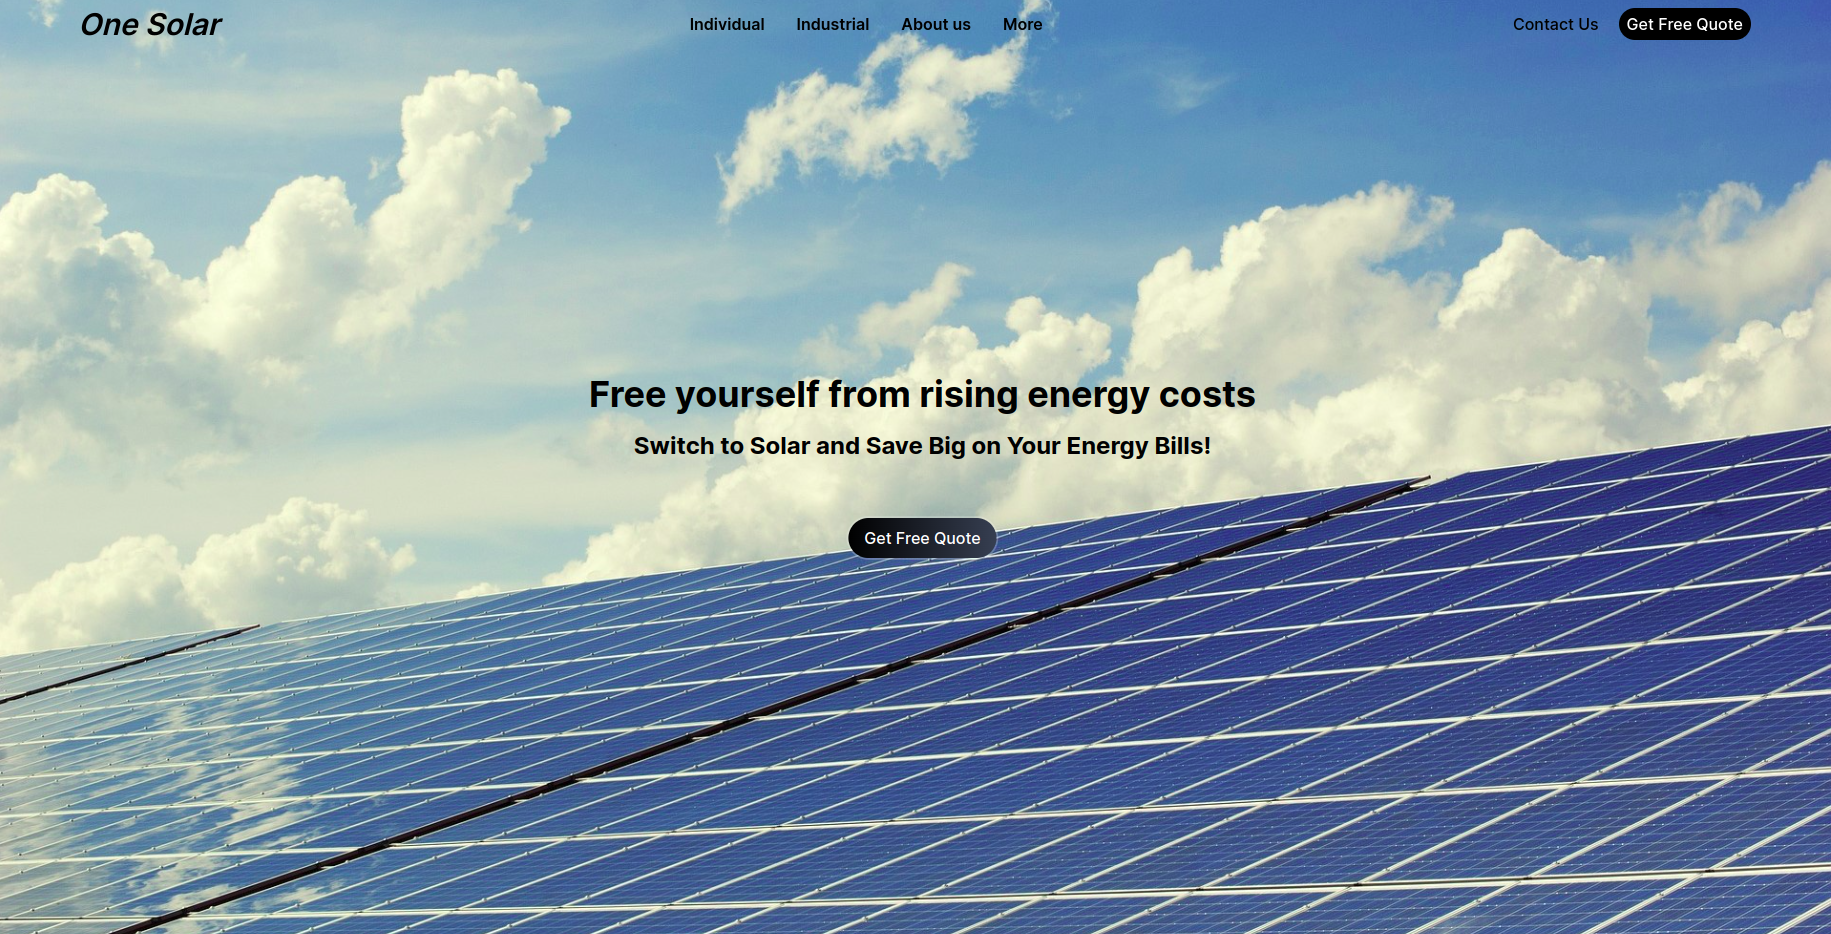
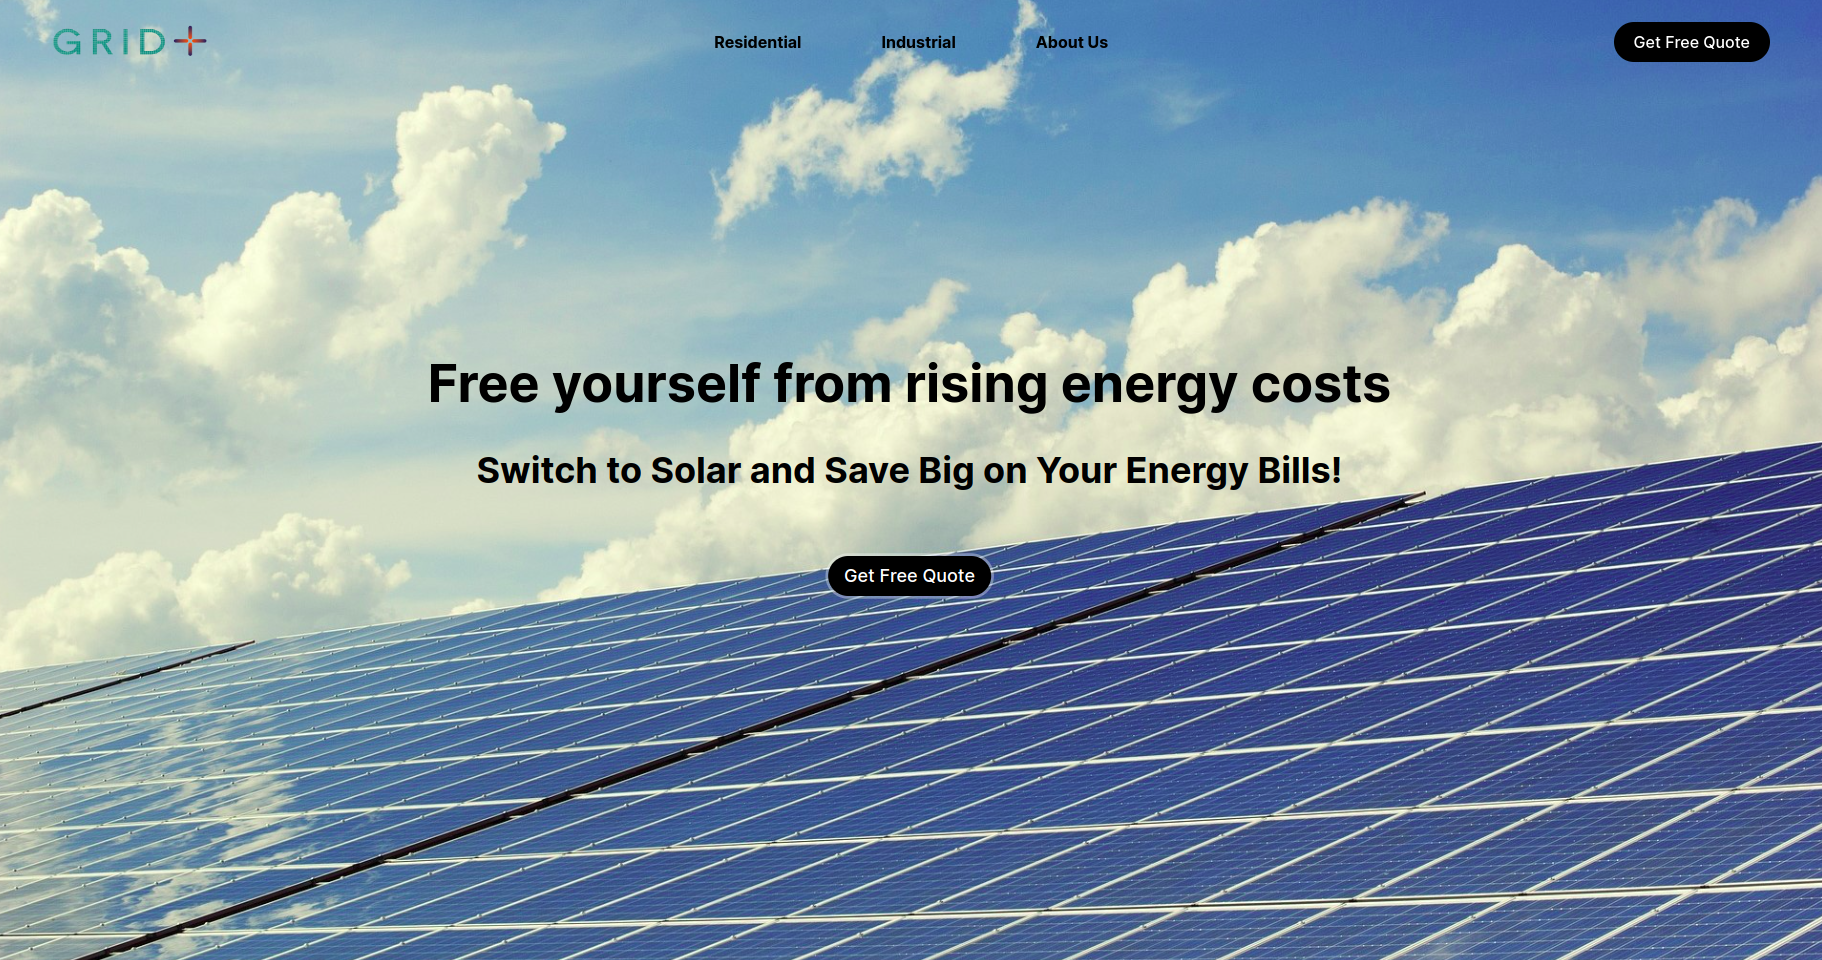
updated

diff --git a/src/components/About.jsx b/src/components/About.jsx
@@ -12,9 +12,15 @@ const About = React.forwardRef((props, ref) => {
           I design and code beautifully simple things, and I love what I do.
         </p>
         <img src={heroimg} alt="Icon"/>
-        <button className="border-2 rounded-full px-3 py-2 text-white font-roboto-slab bg-gradient-to-br from-teal-600 to-teal-500 text-lg md:text-xl shadow-lg border-teal-600 hover:from-white hover:to-teal-100 hover:text-teal-600 transition duration-300 my-4">
-          Download Resume
-        </button>
+        <a
+            href="https://drive.google.com/file/d/1-UUwj1F-O_kJUPCCccDLpO-DfD3YAaU7/view?usp=drive_link" 
+            target="_blank"
+            rel="noopener noreferrer"
+          >
+            <button className="border-2 rounded-full px-3 py-2 text-white font-roboto-slab bg-gradient-to-br from-teal-600 to-teal-500 text-lg md:text-xl shadow-lg border-teal-600 hover:from-white hover:to-teal-100 hover:text-teal-600 transition duration-300 my-4">
+              Download Resume
+            </button>
+          </a>
         </div>
         
         <div
@@ -25,7 +31,7 @@ const About = React.forwardRef((props, ref) => {
             Hi, I&apos;m Ankita. Nice to meet you.
           </h1>
           <p className="text-xl w-full lg:w-1/2 ">
-            In my ten months as a web designer at a company, I&apos;ve loved
+            In my 11+ months as a web designer at a company, I&apos;ve loved
             every moment of creating cool websites. I&apos;m always eager to
             learn and make things better. Whether it&apos;s designing
             user-friendly pages or dreaming up new ideas, I find joy in the

diff --git a/src/components/Experience.jsx b/src/components/Experience.jsx
@@ -61,7 +61,7 @@ const Experience = React.forwardRef((props, ref) => {
     },
     {
       id: 2,
-      title: "One Solar",
+      title: "Grid Plus",
       techused: [react, tailwind, figma, framermotion],
       description: [
         "Designed and developed 4 pages with different sections based on Figma designs.",
@@ -70,7 +70,7 @@ const Experience = React.forwardRef((props, ref) => {
         <p>
           Implemented a{" "}
           <a
-            href="https://one-solar.vercel.app/"
+            href="https://www.gridplus.in/"
             target="_blank"
             className="text-teal-500"
           >
@@ -79,9 +79,10 @@ const Experience = React.forwardRef((props, ref) => {
           to automatically calculate savings based on system size or monthly
           bills with solar energy.
         </p>,
+         "Used EmailJS to get email from form submission.",
       ],
       imageUrl: img3,
-      link: "https://one-solar.vercel.app/",
+      link: "https://www.gridplus.in/",
     },
     {
       id: 3,
@@ -182,7 +183,7 @@ const Experience = React.forwardRef((props, ref) => {
               </div>
             </div>
           ))}
-          {/* <div className="col-start-2 col-span-1 flex justify-center">
+          <div className="col-start-2 col-span-1 flex justify-center">
             {projects.slice(3).map((project, index) => (
               <div
                 key={index}
@@ -241,7 +242,7 @@ const Experience = React.forwardRef((props, ref) => {
                 </div>
               </div>
             ))}
-          </div> */}
+          </div>
         </div>
       </div>
     </>
